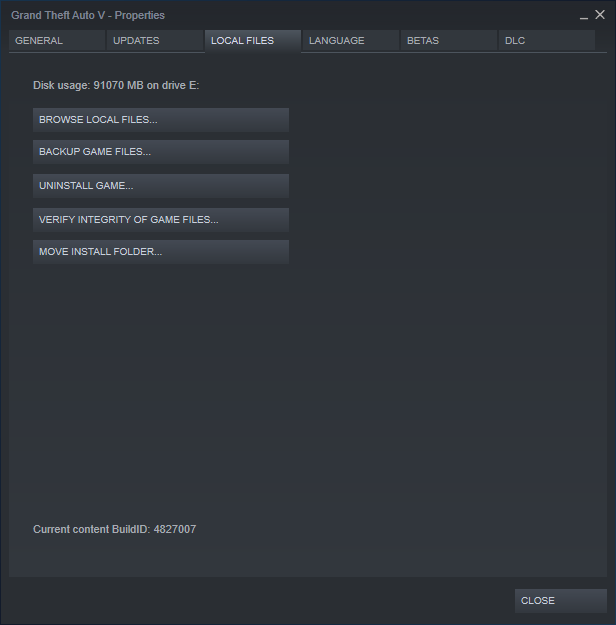
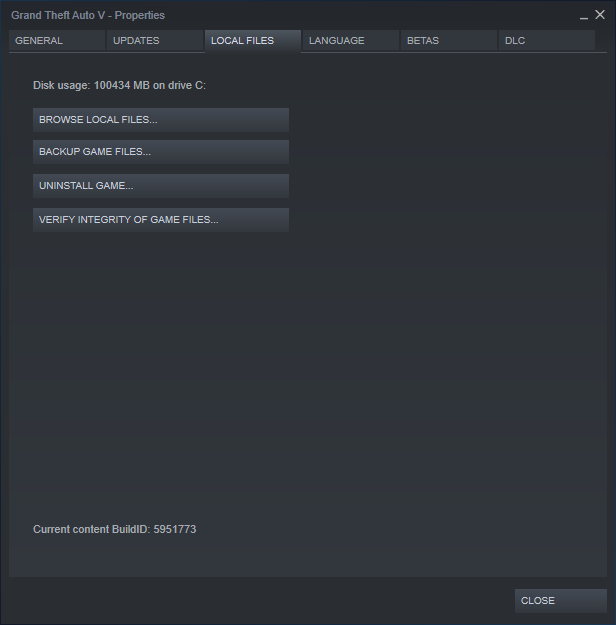
Update post "Share GTA V Game Files Between Steam and Epic Games"
- Update command used for creating shortcut
- Update screenshot
- Update instruction for behavior of latest version of Epic Games
  Launcher

Changed region(s): [[0.0617, 0.3648, 0.4627, 0.4256], [0.1542, 0.1216, 0.3393, 0.152], [0.2468, 0.8208, 0.3084, 0.8512]]

diff --git a/collections/_posts/zh/2020-05-15-gta-v-steam-epic-games.md b/collections/_posts/zh/2020-05-15-gta-v-steam-epic-games.md
@@ -7,7 +7,7 @@ categories:
   - 教程
 excerpt_separator: "<!--more-->"
 toc: true
-last_modified_at: 2020-09-15
+last_modified_at: 2020-12-27
 ---
 {% include img-path.liquid %}
 继 Epic Games 宣布 GTA V 将在他们的平台上限免一周后，大量玩家蜂拥而至，其中甚至不乏一些已经在 Steam 上买了 GTA V，想再弄一个甚至好几个小号的人。
@@ -57,7 +57,7 @@ last_modified_at: 2020-09-15
 
     ![]({{ img_path }}/08-start-cmd.png)
 
-9.  在命令提示符里运行命令 `mklink /J "<Epic Games 路径>" "<Steam 路径>"`，在 Epic Games 游戏安装路径下创建一个连到 Steam 游戏文件的链接。分别将第 1 步和第 6 步里的路径代入该命令中。记得用英文的双引号把路径括起来，不要用中文的双引号。
+9.  在命令提示符里运行命令 `mklink /D "<Epic Games 路径>" "<Steam 路径>"`，在 Epic Games 游戏安装路径下创建一个连到 Steam 游戏文件的链接。分别将第 1 步和第 6 步里的路径代入该命令中。记得用英文的双引号把路径括起来，不要用中文的双引号。
 
     ![]({{ img_path }}/09-1-mklink.png)
 
@@ -69,7 +69,7 @@ last_modified_at: 2020-09-15
 
     ![]({{ img_path }}/10-restore-egstore.png)
 
-11. 现在启动 Epic Games 启动器，您应该能发现已经开始验证游戏文件了，说明操作成功！等待它完成即可。
+11. 现在启动 Epic Games 启动器。如果游戏下载仍然处于暂停状态的话，手动恢复下载。然后，您应该就能发现已经开始验证游戏文件了，说明操作成功！等待它完成即可。
 
     ![]({{ img_path }}/11-epic-games-verifies.png)
 

diff --git a/collections/_posts/en/2020-05-15-gta-v-steam-epic-games.md b/collections/_posts/en/2020-05-15-gta-v-steam-epic-games.md
@@ -6,7 +6,7 @@ tags:
 categories:
   - Tutorial
 toc: true
-last_modified_at: 2020-09-15
+last_modified_at: 2020-12-27
 ---
 {% include img-path.liquid %}
 After Epic Games announced that it would give away free copies of GTA V for a
@@ -75,7 +75,7 @@ Steam's copy of GTA V files under Epic Games' installation path.
 
     ![]({{ img_path }}/08-start-cmd.png)
 
-9.  Run command `mklink /J "<Epic Games Path>" "<Steam Path>"` to create a link
+9.  Run command `mklink /D "<Epic Games Path>" "<Steam Path>"` to create a link
     to Steam's game files for Epic Games. Fill in the paths with values you got
     in step 1 and step 6 respectively. Remember to wrap the values in double
     quotes.
@@ -87,12 +87,13 @@ Steam's copy of GTA V files under Epic Games' installation path.
 
     ![]({{ img_path }}/09-2-link-created.png)
 
-10. Move the `.egstore` folder in step 4 back into GTAV.
+10. Move the `.egstore` folder in step 4 back into `GTAV`.
 
     ![]({{ img_path }}/10-restore-egstore.png)
 
-11. Start Epic Games Launcher. You should see it verifying files for GTA V,
-    which indicates success! Wait until it completes.
+11. Start Epic Games Launcher. If the download progress is paused, resume it
+    manually. Then, you should see it verifying files for GTA V, which
+    indicates success! Wait until it completes.
 
     ![]({{ img_path }}/11-epic-games-verifies.png)
 
